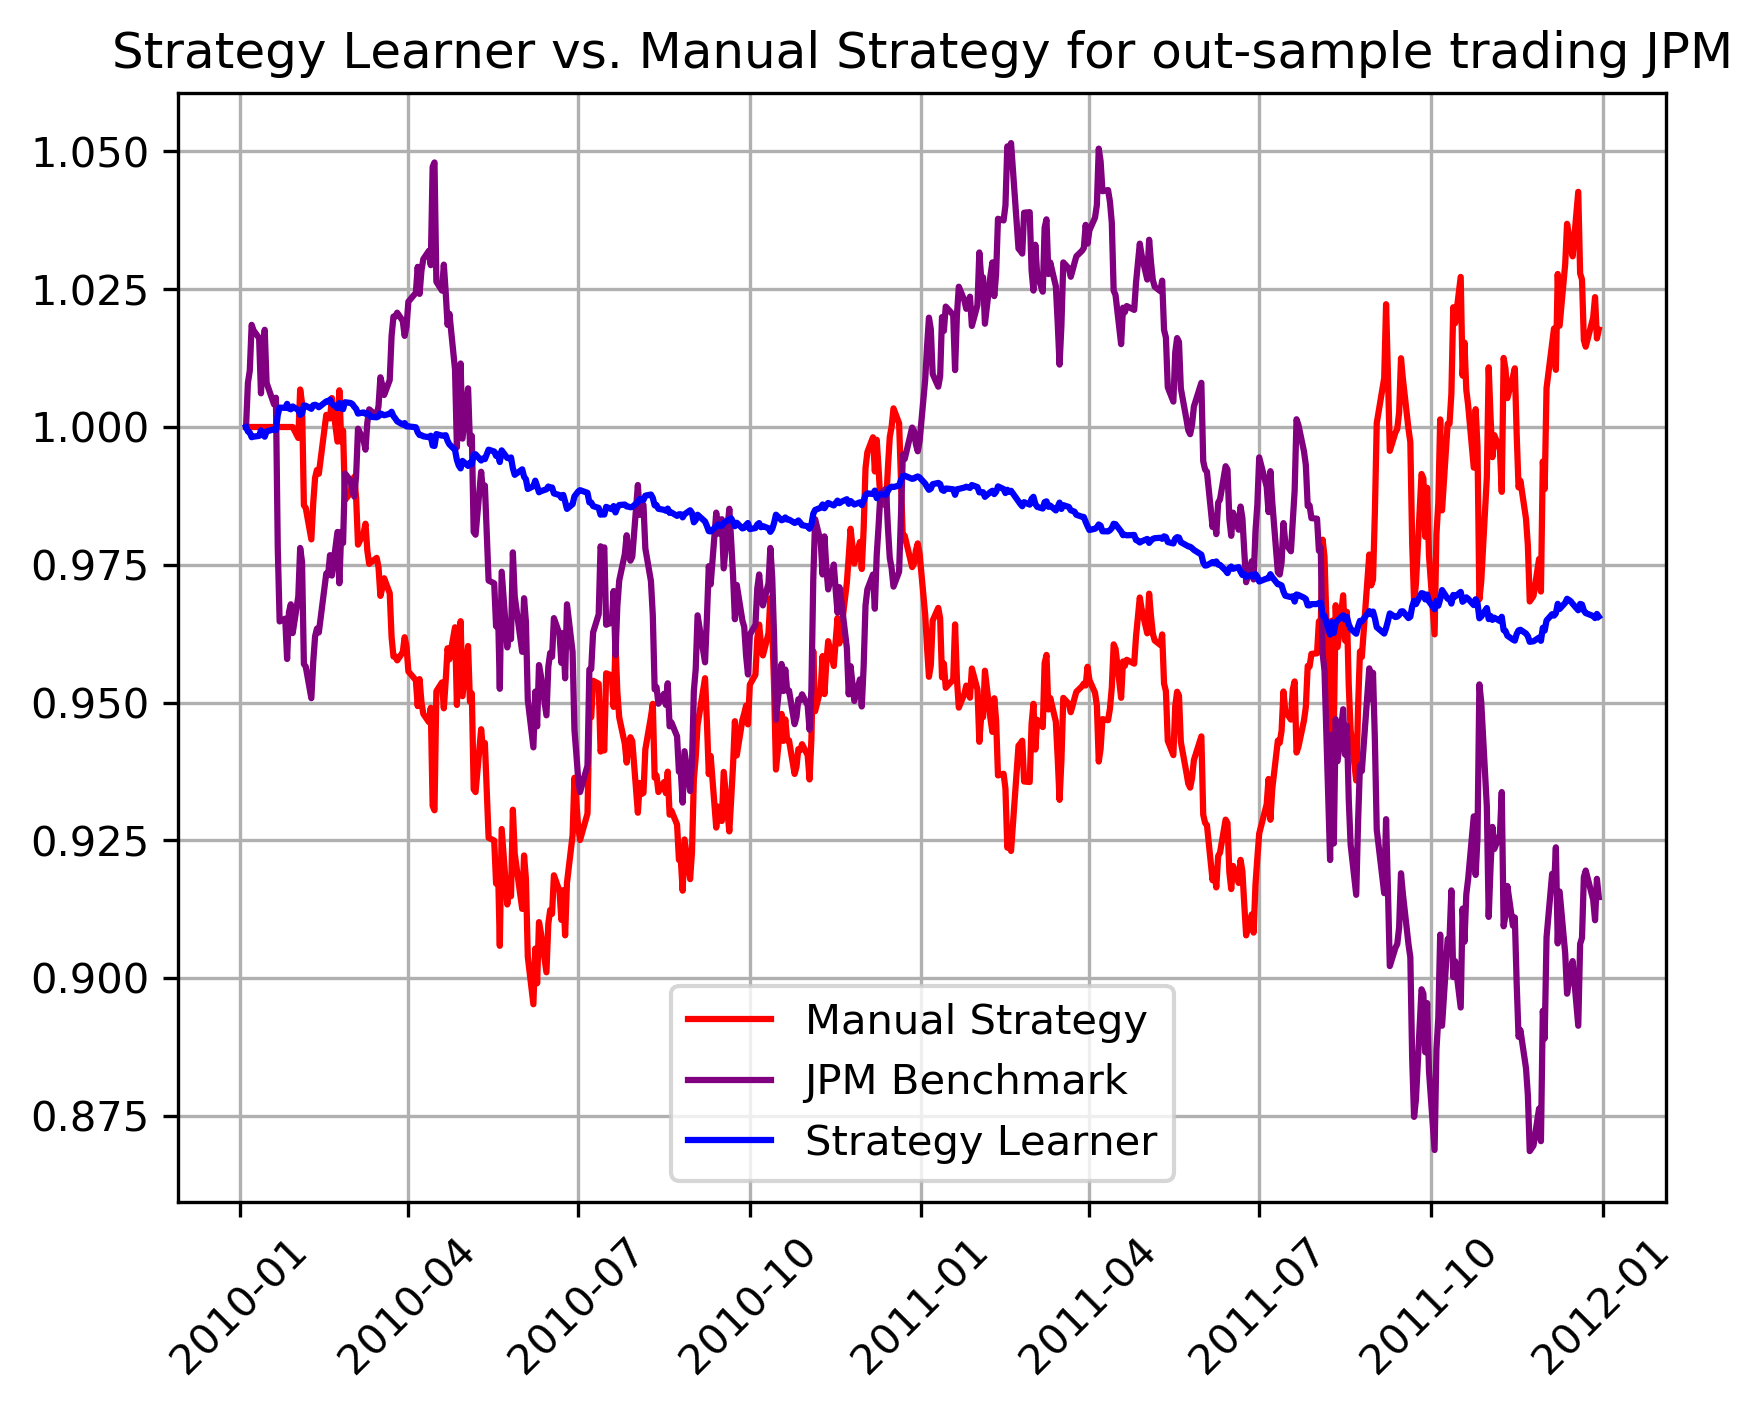
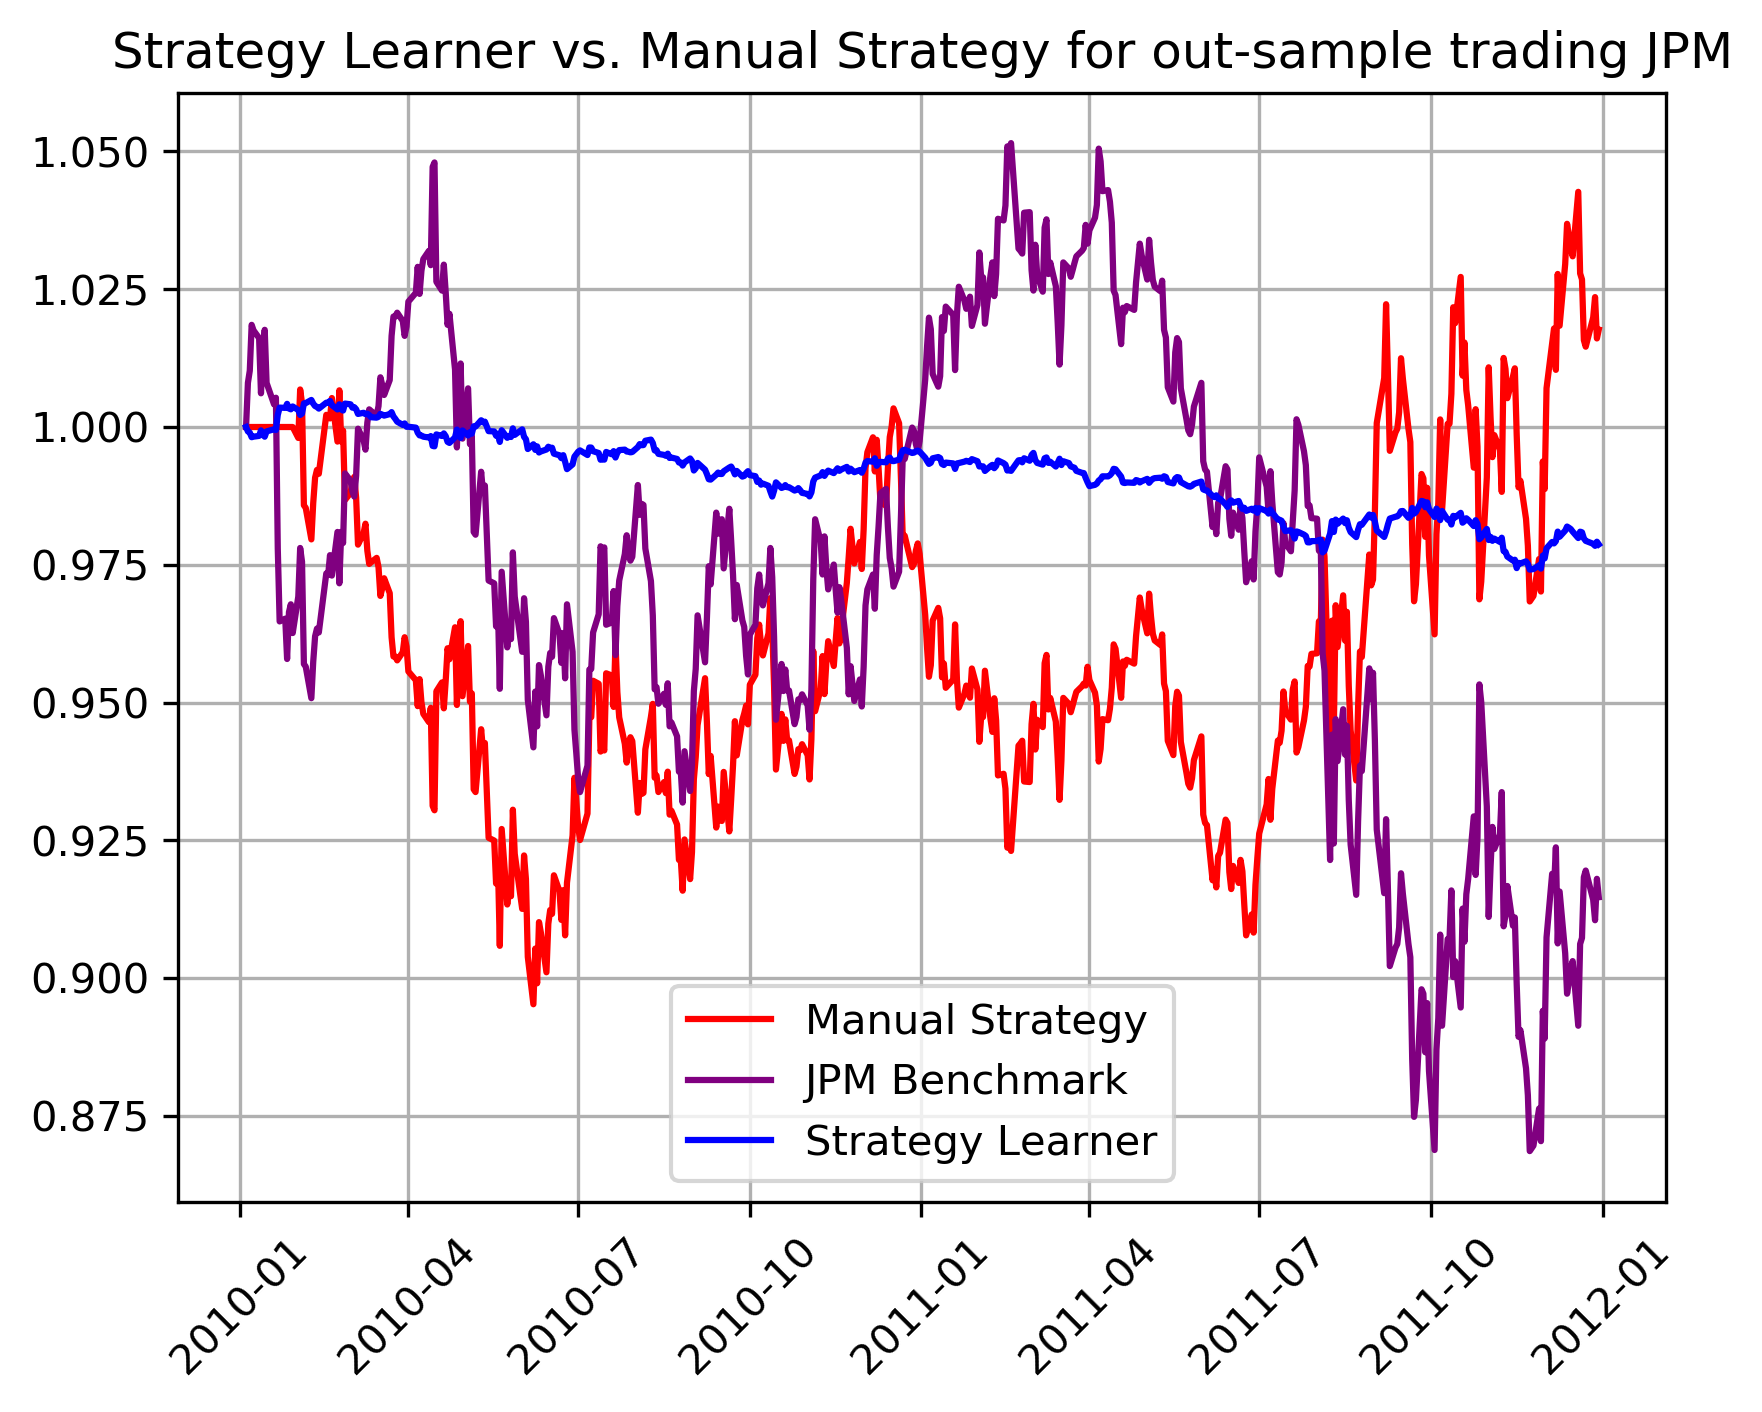
Cleaned StrategyLearner.py and the 2 experiments

diff --git a/strategy_evaluation/StrategyLearner.py b/strategy_evaluation/StrategyLearner.py
@@ -22,14 +22,12 @@ GT honor code violation.
   		  	   		  		 			  		 			     			  	 
 -----do not edit anything above this line---  		  	   		  		 			  		 			     			  	 
   		  	   		  		 			  		 			     			  	 
-Student Name: Tucker Balch (replace with your name)  		  	   		  		 			  		 			     			  	 
-GT User ID: tb34 (replace with your User ID)  		  	   		  		 			  		 			     			  	 
-GT ID: 900897987 (replace with your GT ID)  		  	   		  		 			  		 			     			  	 
+Student Name: Vaishnavi Sanjeev  		  	   		  		 			  		 			     			  	 
+GT User ID: vsanjeev6  		  	   		  		 			  		 			     			  	 
+GT ID: 903797718   		  	   		  		 			  		 			     			  	 
 """
 
 import datetime as dt
-import random
-
 import pandas as pd
 import util as ut
 import QLearner as ql
@@ -50,7 +48,8 @@ class StrategyLearner(object):
     :type commission: float
     """
     def author(self):
-        return "pcometti3"  # replace tb34 with your Georgia Tech username
+        return 'vsanjeev6'
+
     # constructor
     def __init__(self, verbose=False, impact=0.0, commission=0.0):
         """
@@ -61,8 +60,7 @@ class StrategyLearner(object):
         self.commission = commission
         self.ql = ql.QLearner(num_states=1000, num_actions=3, alpha=0.1, gamma=0.15, rar=0.2, radr=0.99, dyna=0, verbose=False)
 
-        # this method should create a QLearner, and train it for trading
-
+    # this method should create a QLearner, and train it for trading
     def add_evidence(
             self,
             symbol="IBM",
@@ -98,8 +96,8 @@ class StrategyLearner(object):
 
         indicators = pd.concat([bbp, CCI, MOM], axis=1)
         indicators = indicators.loc[sd:]
-        indicators['state'] = indicators['BBP'].astype(str) + indicators['CCI'].astype(str) + \
-                              indicators['MOM'].astype(str)
+        indicators['state'] = indicators['BBP'].astype(str) + indicators['CCI'].astype(str) + indicators['MOM'].astype(str)
+        #print(indicators)
         initial_state = indicators.iloc[0]['state']
 
         self.ql.querysetstate(int(float(initial_state)))
@@ -111,37 +109,38 @@ class StrategyLearner(object):
         df_trades_copy = df_trades.copy()
         i = 0
 
-        while i < 100: #30 iteration limit
+        # Run through the training data several times to learn
+        while i < 100:
             i += 1
             holdings = 0
-
+            # Check for Convergence
             if i>5 and df_trades.equals(df_trades_copy):
-                # convergence
                 break
-
             df_trades_copy = df_trades.copy()
 
             for index in range(len(prices)):
+                # Impact is part of rewards computation
                 reward = holdings * daily_price_change.loc[prices.index[index]] * (1 - self.impact)
+                # Query function updates Q-Table
                 a = self.ql.query(int(float(indicators.loc[prices.index[index]]['state'])), reward)
+                # Net holdings are constrained to -1000, 0, 1000
                 if (a == 1) and (holdings < 1000):
                     #BUY
-                    if holdings == 0:
+                    if holdings == 0: # A long trade = +1000
                         df_trades.loc[prices.index[index]] = 1000
-                    elif holdings == -1000:
+                    elif holdings == -1000: # If current holdings = -1000, a long trade = 2000 (switching from short to long)
                         df_trades.loc[prices.index[index]] = 2000
                     holdings += df_trades.loc[prices.index[index]].values[0]
 
                 elif (a == 2) and (holdings > -1000):
                     #SELL
-                    if holdings == 0:
+                    if holdings == 0: # A short trade = -1000
                         df_trades.loc[prices.index[index]] = -1000
-                    elif holdings == 1000:
+                    elif holdings == 1000: # If current holdings = 1000, a short trade = -2000 (switching from long to short)
                         df_trades.loc[prices.index[index]] = -2000
                     holdings += df_trades.loc[prices.index[index]].values[0]
 
-            # this method should use the existing policy and test it against new data
-
+    # this method should use the existing policy and test it against new data
     def testPolicy(
             self,
             symbol="IBM",
@@ -185,10 +184,8 @@ class StrategyLearner(object):
 
         indicators = pd.concat([bbp, CCI, MOM], axis=1)
         indicators = indicators.loc[sd:]
-        indicators['state'] = indicators['BBP'].astype(str) + indicators['CCI'].astype(str) + \
-                              indicators['MOM'].astype(str)
+        indicators['state'] = indicators['BBP'].astype(str) + indicators['CCI'].astype(str) + indicators['MOM'].astype(str)
         initial_state = indicators.iloc[0]['state']
-
 
         self.ql.querysetstate(int(float(initial_state)))
 
@@ -197,6 +194,7 @@ class StrategyLearner(object):
         holdings = 0
 
         for index in range(len(prices)):
+            # Querysetstate function does not update the Q-Table
             a = self.ql.querysetstate(int(float(indicators.loc[prices.index[index]]['state'])))
             if (a == 1) and (holdings < 1000):
                 # BUY
@@ -213,7 +211,6 @@ class StrategyLearner(object):
                 elif holdings == 1000:
                     df_trades.loc[prices.index[index]] = -2000
                 holdings += df_trades.loc[prices.index[index]].values[0]
-
         return df_trades
 
 def get_daily_returns(port_val):
@@ -224,32 +221,31 @@ def get_daily_returns(port_val):
 def discretize(data, steps=10):
     stepsize = round(len(data) / steps)
     data1 = data.sort_values()
-    treshold = np.zeros(steps - 1)
+    threshold = np.zeros(steps - 1)
     for i in range(steps - 1):
-        treshold[i] = data1.iloc[(i + 1) * stepsize]
+        threshold[i] = data1.iloc[(i + 1) * stepsize]
 
     for i in range(len(data)):
-        if data.iloc[i] <= treshold[0]:
+        if data.iloc[i] <= threshold[0]:
             data.iloc[i] = 0
-        elif treshold[0] < data.iloc[i] <= treshold[1]:
+        elif threshold[0] < data.iloc[i] <= threshold[1]:
             data.iloc[i] = 1
-        elif treshold[1] < data.iloc[i] <= treshold[2]:
+        elif threshold[1] < data.iloc[i] <= threshold[2]:
             data.iloc[i] = 2
-        elif treshold[2] < data.iloc[i] <= treshold[3]:
+        elif threshold[2] < data.iloc[i] <= threshold[3]:
             data.iloc[i] = 3
-        elif treshold[3] < data.iloc[i] <= treshold[4]:
+        elif threshold[3] < data.iloc[i] <= threshold[4]:
             data.iloc[i] = 4
-        elif treshold[4] < data.iloc[i] <= treshold[5]:
+        elif threshold[4] < data.iloc[i] <= threshold[5]:
             data.iloc[i] = 5
-        elif treshold[5] < data.iloc[i] <= treshold[6]:
+        elif threshold[5] < data.iloc[i] <= threshold[6]:
             data.iloc[i] = 6
-        elif treshold[6] < data.iloc[i] <= treshold[7]:
+        elif threshold[6] < data.iloc[i] <= threshold[7]:
             data.iloc[i] = 7
-        elif treshold[7] < data.iloc[i] <= treshold[8]:
+        elif threshold[7] < data.iloc[i] <= threshold[8]:
             data.iloc[i] = 8
         else:
             data.iloc[i] = 9
-
     return (data.astype(int)).to_frame()
 
 

diff --git a/strategy_evaluation/experiment1.py b/strategy_evaluation/experiment1.py
@@ -8,14 +8,14 @@ import matplotlib.pyplot as plt
 pd.plotting.register_matplotlib_converters()
 
 def author():
-    return "vsanjeev6"
+    return 'vsanjeev6'
 
 def test_code():
     ms = ManualStrategy()
-    sl = StrategyLearner(verbose = False, impact = 0.005, commission=0.0)
-    sl.add_evidence(symbol='JPM', sd=dt.datetime(2008, 1, 1), ed=dt.datetime(2009, 12, 31))
-    df_out_trades = sl.testPolicy(symbol='JPM', sd=dt.datetime(2010, 1, 1), ed=dt.datetime(2011, 12, 31))
-    df_in_trades = sl.testPolicy(symbol='JPM', sd=dt.datetime(2008, 1, 1), ed=dt.datetime(2009, 12, 31))
+    sl = StrategyLearner(verbose = False, impact = 0.0, commission=0.0)
+    sl.add_evidence(symbol='JPM', sd=dt.datetime(2008, 1, 1), ed=dt.datetime(2009, 12, 31), sv = 100000)
+    df_out_trades = sl.testPolicy(symbol='JPM', sd=dt.datetime(2010, 1, 1), ed=dt.datetime(2011, 12, 31), sv = 100000)
+    df_in_trades = sl.testPolicy(symbol='JPM', sd=dt.datetime(2008, 1, 1), ed=dt.datetime(2009, 12, 31), sv = 100000)
 
     df_trades, _, _ = ms.testPolicy(symbol="JPM", sd=dt.datetime(2008, 1, 1), ed=dt.datetime(2009, 12, 31),sv=100000)
     df_benchmark = pd.DataFrame(0, index=df_trades.index, columns=["JPM"])

diff --git a/strategy_evaluation/experiment2.py b/strategy_evaluation/experiment2.py
@@ -4,9 +4,8 @@ from StrategyLearner import StrategyLearner
 import marketsimcode as ms
 import matplotlib.pyplot as plt
 
-
 def author():
-    return "pcometti3"  # replace tb34 with your Georgia Tech username
+    return 'vsanjeev6'
 
 def test_code():
     sl = StrategyLearner(verbose = False, impact = 0)

diff --git a/strategy_evaluation/testproject.py b/strategy_evaluation/testproject.py
@@ -3,7 +3,7 @@ import experiment2 as ex2
 import ManualStrategy as ms
 
 def author():
-    return "pcometti3"  # replace tb34 with your Georgia Tech username
+    return 'vsanjeev6'
 
 def run():
     ms.test_code(symbol="JPM", sv=100000)
